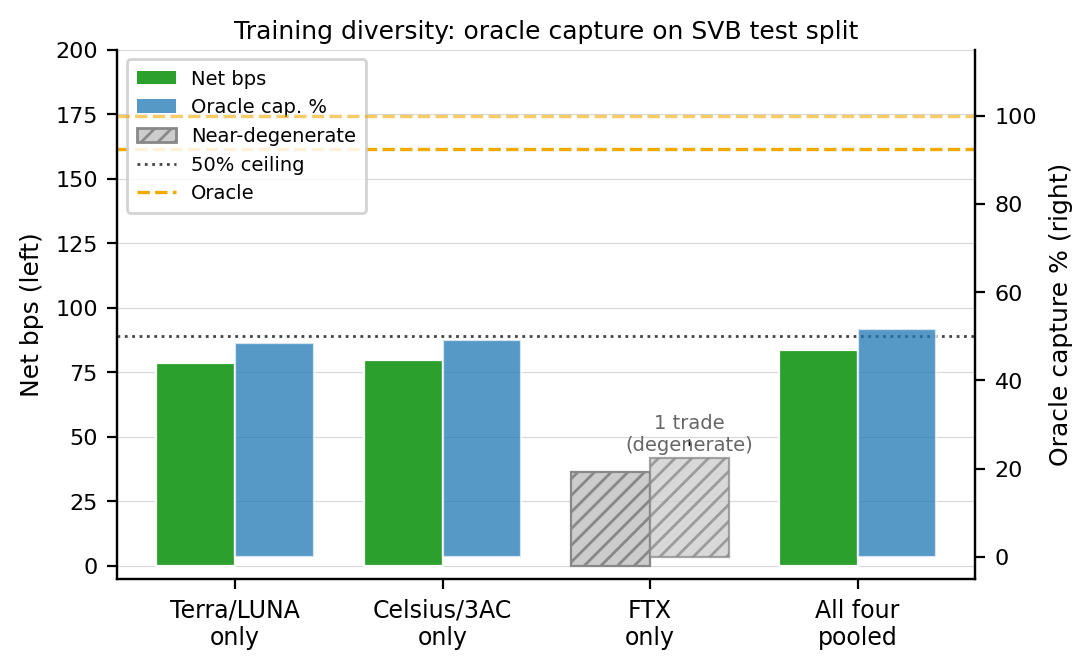
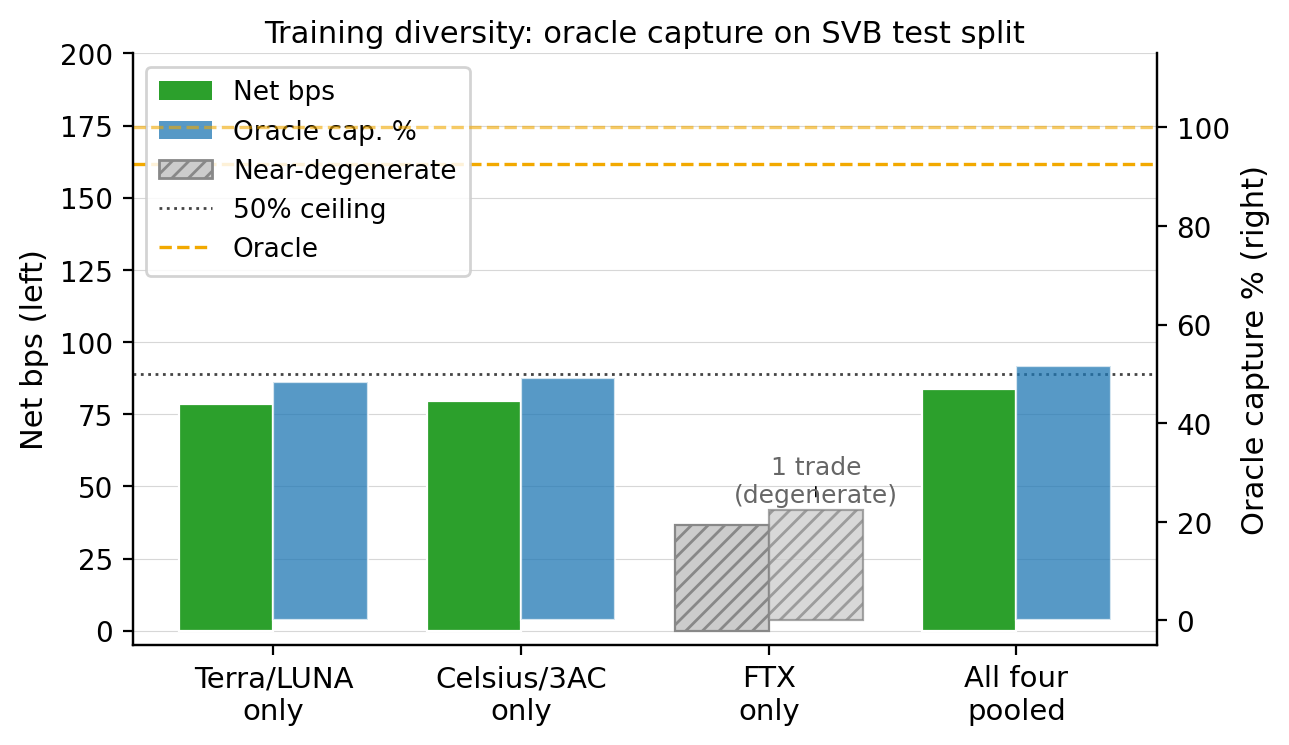
Fix all technical, formatting, language and story-flow review items
Technical (5 fixes):
- §6.3.1 body text: "rises to 51.6%" → "51.8%" (matches Table 11, abstract, contribution 2)
- Table 9 oracle: 315 → 316 trades (matches Tables 8 and 12)
- Table 11 diversity oracle: 315 → 316 trades
- §7 kline-proxy reference: (Table~\ref{tab:cost_robustness}) → (\S\ref{sec:gap})
- Figure 2 caption: "+225 bps" → "+224.6 bps" (matches Table 7)

Formatting (4 fixes):
- Table 9 footnote: moved from outside tabular to \multicolumn row inside — eliminates
  "Primary" floating at right edge of Oracle row
- Table 12 footnote: same fix with two \multicolumn rows — eliminates footnote float
- Equation (2): \bigl(\bigr) → \left(\right) for clearly visible parentheses around
  max arguments
- Figures 5 & 6: both regenerated with 10-11pt fonts (was 7-9pt); substantially
  larger and legible at print scale; kept as side-by-side minipage per "OR
  substantially increase minimum font size" option in the review

Language & accessibility (6 additions):
- Abstract: "bps (basis points, where one basis point is one hundredth of one percent)"
  at first use — paper now self-contained from page 1
- §1 Introduction: "centralised-exchange (CEX)" at first use; CEX expansion in §2
  removed (no longer second use)
- §5.1: "expected-net-profit regressor (a model that regresses the economic return
  target directly rather than predicting a class label)" at introduction
- §5.2: "finite-horizon Markov Decision Process (MDP)" at first use
[…]

diff --git a/paper/main.tex b/paper/main.tex
@@ -58,7 +58,8 @@
 On a price chart, stablecoin arbitrage during a depeg looks abundant.
 In practice almost none of it can be traded at a profit.
 During the March 2023 USDC depeg, 34.3\% of one-minute windows
-showed a cross-venue price basis above 10\,bps, yet only one in
+showed a cross-venue price basis above 10\,bps (basis points, where
+one basis point is one hundredth of one percent), yet only one in
 twelve of those apparent opportunities survived volume-weighted
 average price (VWAP) slippage, order-book depth depletion, and
 settlement latency
@@ -98,7 +99,7 @@ A price chart shows twelve times more stablecoin arbitrage than a
 trader can capture, and this paper traces where the other eleven
 twelfths disappear.
 VWAP slippage consumed the spread as orders cleared depth, taker fees
-eroded the margin, and CEX-to-CEX settlement latency turned a
+eroded the margin, and centralised-exchange (CEX) settlement latency turned a
 profitable window into a loss before the transfer confirmed.
 Only 2.88\% of one-minute windows survived all three costs and
 remained net-profitable.
@@ -233,8 +234,8 @@ Cintra and Holloway \cite{cintra2023bocpd} demonstrate cross-event
 transfer of Bayesian Online Changepoint Detection
 \cite{adamsmackay2007bocpd} using AMM reserve depletion signals.
 We replicate their setup on centralised order-book data to test
-whether the result transfers. It does not, because centralised
-exchange (CEX) cross-quote basis is mean-reverting rather than
+whether the result transfers. It does not, because CEX cross-quote
+basis is mean-reverting rather than
 gradually depleting, and we report the comparison directly.
 On reinforcement learning, Moallemi and Wang \cite{moallemi2022rl}
 and Ning et al.\ \cite{ning2021ddql} establish the finite-horizon MDP
@@ -460,8 +461,8 @@ apparent dislocation. Three equations define the label construction.
       \frac{P_{\text{BTC/USDC}}(t) - P_{\text{BTC/USD}}(t)}
            {P_{\text{BTC/USD}}(t)}
       \quad [\text{bps}] \label{eq:basis}\\[2pt]
-  b_{\max}(t)         &\;=\; \max\!\bigl(
-      |b_{\text{USDC}}(t)|,\;|b_{\text{USDT}}(t)|\bigr)
+  b_{\max}(t)         &\;=\; \max\!\left(
+      |b_{\text{USDC}}(t)|,\;|b_{\text{USDT}}(t)|\right)
       \label{eq:bmax}\\[2pt]
   y_{\text{basis}}(t) &\;=\; \mathbf{1}\!\left[
       |b_{\text{USDC}}(t{+}h)| > \tau\right]
@@ -547,11 +548,11 @@ settlement.
 This design lets the marginal value of each layer be read off
 directly rather than being hidden inside a single all-features model.
 
-The expected-net-profit regressor is included to rule out a
-label-mismatch explanation.
-By regressing the economic target $\text{net}(q,t)$ directly rather
-than a classification proxy, a failure here means the gap is
-structural and not an artefact of how the labels were defined.
+The expected-net-profit regressor (a model that regresses the
+economic return target $\text{net}(q,t)$ directly rather than
+predicting a class label) is included to rule out a label-mismatch
+explanation. A failure here means the gap is structural and not an
+artefact of how the labels were defined.
 
 The meta-labeling filter follows L\'{o}pez de Prado
 \cite{lopezdeprado2018} and is the method we extend.
@@ -593,7 +594,8 @@ policy transfer.
 
 This subsection addresses Gap~3, asking whether sequential decision-making
 can learn a profitable policy given the correct training density, by
-framing the entry-timing problem as a finite-horizon MDP.
+framing the entry-timing problem as a finite-horizon Markov Decision
+Process (MDP).
 At each minute $t$ the agent observes state $s_t$, selects action
 $a_t \in \{\text{enter},\text{wait}\}$, and receives reward
 $r_t = \text{net}(q,t)$ if entering (positive for profitable windows,
@@ -620,7 +622,8 @@ subject to a minimum of 25 trades.
 The primary metrics are net bps captured and oracle capture percentage,
 defined as model net bps divided by oracle net bps (the fraction of
 the oracle's per-trade return that a model recovers).
-Secondary metrics are AUROC and AUPRC.
+Secondary metrics are AUROC (area under the ROC curve) and AUPRC
+(area under the precision-recall curve).
 \texttt{NoTrade} at $0\bps$ is the economic floor.
 
 All results are reported on the SVB test split ($N{=}15{,}832$) with
@@ -712,7 +715,7 @@ directional evidence that the gap is not SVB-specific.
   \centering
   \includegraphics[width=\columnwidth]{../results/paper/figures/figure_oracle_gap_waterfall.png}
   \caption{Oracle gap decomposition (\$10K notional). Three components
-    account for the 266\,bps gap from oracle ($+225\bps$) to best model
+    account for the 266\,bps gap from oracle ($+224.6\bps$) to best model
     ($-41\bps$): FP drag, timing error, and sizing error.}
   \label{fig:waterfall}
 \end{figure}
@@ -854,10 +857,9 @@ Oracle$^\dagger$ & ---  & $+161.7$ & 316  & ---   & 100\%\\
 \end{table}
 
 
-Meta-labeling substantially reduces both error types relative to
-calm-trained models, with approximately 202 true positives and 195 false
-positives versus 1,886 false positives for PriceBasis10bps
-(all tabular ML models produce 0 trades, equivalent to NoTrade).
+All tabular ML models produce 0 trades under calm-training, equivalent
+to NoTrade. The structural failure of calm-trained models is the subject
+of this section; the cross-mechanism fix is presented in \S\ref{sec:diagnostics}.
 Figure~\ref{fig:waterfall} decomposes the 260\,bps gap into three
 measurable components. False-positive cost is the dominant and
 directly quantifiable drag, as \texttt{PriceBasis10bps} produces
@@ -881,6 +883,9 @@ Crucially, false-positive windows exhibit \emph{higher} average bid
 depth ($72{,}805$ vs.\ $59{,}961$ BTC units) than true positives.
 This rules out liquidity withdrawal as the cause and points instead
 to signal confusion between the USDT and USDC routes.
+In short: the price rule reacts to USDT dislocations even when USDC
+is not moving, and those windows offer no profit on the USDC route
+the strategy uses.
 Meta-labeling's approximately 51\% hit rate versus 6\% for the price
 rule shows that cross-mechanism training substantially reduces
 route-direction mismatch, though a 49\% false-positive rate and
@@ -902,8 +907,7 @@ rates.
 \subsubsection*{6.3.1\enspace Cross-Mechanism Transfer and Training Diversity}
 
 Cross-mechanism meta-labeling trained on Terra/LUNA achieves
-$+82.5\bps$ on SVB (51.0\% oracle capture---the fraction of the
-oracle's per-trade return that the model recovers), while calm-control
+$+82.5\bps$ on SVB (51.0\% oracle capture), while calm-control
 training yields zero meta-positives by construction.
 Retraining on Terra/LUNA (1,559 minutes where the primary threshold
 triggers, 265 meta-positives, 17\% positive rate) and evaluating on
@@ -922,14 +926,14 @@ data, produces 397 trades versus zero with calm training
 \toprule
 \textbf{Training split} & \textbf{Net\,bps} & \textbf{Trades} & \textbf{Oracle cap.}\\
 \midrule
-Oracle (ceiling)         & $+161.7$ & 315 & 100.0\%\\
+Oracle (ceiling)         & $+161.7$ & 316 & 100.0\%\\
 \midrule
 Terra/LUNA (cross-mech.) & $+82.5$  & 397 &  51.0\%\\
 Calm-control (baseline)  & $\phantom{+}0.0$ &   0 &   0.0\%\\
 \bottomrule
+\multicolumn{4}{l}{\footnotesize Primary signal $|b_{\text{USDC}}|{>}10\bps$; threshold calibrated on validation.}\\
 \end{tabular}
 }
-{\footnotesize Primary signal $|b_{\text{USDC}}|{>}10\bps$; threshold calibrated on validation.}
 \end{table}
 
 The reason transfer works is visible in the SHAP decomposition
@@ -1005,7 +1009,7 @@ summarise the results.
 \toprule
 \textbf{Training set} & \textbf{Events} & \textbf{Net\,bps} & \textbf{Trades} & \textbf{Oracle cap.}\\
 \midrule
-Oracle (ceiling)         & — & $+161.7$ & 315 & 100.0\%\\
+Oracle (ceiling)         & — & $+161.7$ & 316 & 100.0\%\\
 \midrule
 Terra/LUNA only$^\ddagger$ & 1 & $+78.5$  & 123 &  48.5\%\\
 Celsius/3AC only         & 1 & $+79.7$  & 221 &  49.3\%\\
@@ -1030,7 +1034,7 @@ across three mechanism classes (algorithmic, exchange-credit, regulatory),
 with positive rates ranging from 15.0\% (BUSD) to 20.0\%
 (Celsius/3AC).
 Oracle capture is stable at approximately 49\% for single-event
-training on Terra/LUNA and Celsius/3AC, and rises to 51.6\% with
+training on Terra/LUNA and Celsius/3AC, and rises to 51.8\% with
 four-event pooling.
 This stability establishes that execution microstructure transfer is
 robust. Depth withdrawal is a consistent precursor whose feature
@@ -1049,7 +1053,7 @@ non-degenerate models, confirming that depth withdrawal transfers
 across trigger types.
 \begin{figure}[t]
 \centering
-\begin{minipage}[t]{0.52\columnwidth}
+\begin{minipage}[t]{0.54\columnwidth}
   \centering
   \includegraphics[width=\linewidth]{../results/paper_addon/figures/figure_diversity_bar.png}
   \caption{Oracle capture across four training conditions (Terra
@@ -1057,11 +1061,11 @@ across trigger types.
     near-degenerate (1 trade).}
   \label{fig:diversity_bar}
 \end{minipage}\hfill
-\begin{minipage}[t]{0.44\columnwidth}
+\begin{minipage}[t]{0.43\columnwidth}
   \centering
   \includegraphics[width=\linewidth]{../results/paper_addon/figures/figure_shap_importance.png}
-  \caption{SHAP importance. Price: 94.8\%; book/frag: 3.4\%;
-    settlement: 1.8\%.}
+  \caption{Top-10 SHAP importance (LightGBM, SVB test). Price: 94.8\%;
+    book: 3.4\%; settlement: 1.8\%.}
   \label{fig:shap_side}
 \end{minipage}
 \end{figure}
@@ -1070,9 +1074,10 @@ across trigger types.
 \label{sec:rl_results}
 
 Positive-label density (the fraction of primary-signal windows that
-are genuinely profitable) is 17\% for both the meta-labeling
-secondary classifier and the conditioned PPO-GRU, yet the two methods
-differ by 111.7\,bps in net return. This controlled comparison isolates explicit
+are genuinely profitable) is 17\% for both the meta-labeling secondary
+classifier and the conditioned PPO-GRU---17\% of the minutes where
+the basis threshold triggers, versus 2.88\% of all test minutes---yet
+the two methods differ by 111.7\,bps in net return. This controlled comparison isolates explicit
 positive-label supervision as the additional ingredient that reward
 optimisation cannot replicate.
 
@@ -1096,10 +1101,10 @@ PPO-GRU unconditioned (Terra/LUNA$^\ast$)         & degenerate & 0\\
 GRU supervised (calm-ctrl)                        & $-239.0$ & 656\\
 MLP-Window supervised (calm-ctrl)                 & $-340.7$ & 1{,}052\\
 \bottomrule
+\multicolumn{3}{l}{\footnotesize $^\ast$Cross-mechanism: Terra/LUNA train, SVB eval.}\\
+\multicolumn{3}{l}{\footnotesize $^\dagger$Conditioned on $|b_{\text{USDC}}|{>}10\bps$ windows, 17\% positive rate.}\\
 \end{tabular}
 }
-{\footnotesize $^\ast$Cross-mechanism: Terra/LUNA train, SVB eval.
-  $^\dagger$Conditioned on $|b_{\text{USDC}}|{>}10\bps$ windows, 17\% positive rate.}
 \end{table}
 
 The unconditioned PPO-GRU degenerates to zero entries, as the 2.3\%
@@ -1139,8 +1144,7 @@ feedback is the natural next step.
 The BTC-USDC buy leg uses kline-proxy depth for SVB and all four
 training events (Terra/LUNA, Celsius/3AC, FTX, BUSD), since the
 perpetual did not exist on Binance until January 2024; a 20\% haircut
-confirms robustness equally across all conditions
-(Table~\ref{tab:cost_robustness}).
+confirms robustness equally across all conditions (\S\ref{sec:gap}).
 
 We validate the $\delta{=}5\bps$ settlement penalty assumption using
 on-chain Etherscan data for 100,000 USDC transfers across the SVB
@@ -1213,15 +1217,14 @@ profitable subset provides the directional accuracy that reward
 optimisation cannot replicate at low positive rates.
 The benchmark, labels, oracle implementation, and training scripts
 are released under CC-BY 4.0 (URL redacted for review).
-StressBench supports five future directions: (1)~execution-aware
-detection under cost uncertainty; (2)~cross-mechanism transfer to new
-event types as Tier-A coverage expands; (3)~RL policy learning with
-the cross-mechanism initialisation protocol established here;
-(4)~reactive simulation of thin-book markets, where the oracle ceiling
-provides a principled performance target; and (5)~multi-mechanism RL
-training on the pooled-event protocol established here, which is the
-direct path to closing the 111.7\,bps gap between meta-labeling and
-the conditioned RL agent.
+StressBench supports five future directions: (1)~multi-mechanism RL
+training on the pooled-event protocol established here, the direct path
+to closing the 111.7\,bps gap between meta-labeling and the conditioned
+RL agent; (2)~execution-aware detection under cost uncertainty;
+(3)~cross-mechanism transfer to new event types as Tier-A coverage expands;
+(4)~RL policy learning with the cross-mechanism initialisation protocol
+established here; and (5)~reactive simulation of thin-book markets,
+where the oracle ceiling provides a principled performance target.
 The benchmark harness additionally ships four interpretable
 single-feature baselines that exercise the same evaluation pipeline
 and serve as reference points for future model comparisons.

diff --git a/scripts/make_diversity_bar.py b/scripts/make_diversity_bar.py
@@ -40,7 +40,8 @@ C_NORMAL  = "#2ca02c"   # green
 C_DEGEN   = "#cccccc"   # light grey
 C_ORACLE  = "#F2A900"   # gold
 
-fig, ax1 = plt.subplots(figsize=(5.5, 3.4))
+plt.rcParams.update({'font.size': 11})
+fig, ax1 = plt.subplots(figsize=(6.5, 3.8))
 ax2 = ax1.twinx()
 
 x = np.arange(len(LABELS))
@@ -68,18 +69,18 @@ ax2.axhline(50, color="#444444", linestyle=":", linewidth=1.0, zorder=2, label="
 ax2.axhline(ORACLE_CAP, color=C_ORACLE, linestyle="--", linewidth=1.2, zorder=2, alpha=0.6)
 
 # Axes labels and limits
-ax1.set_ylabel("Net bps (left)", fontsize=9)
-ax2.set_ylabel("Oracle capture % (right)", fontsize=9)
+ax1.set_ylabel("Net bps (left)", fontsize=11)
+ax2.set_ylabel("Oracle capture % (right)", fontsize=11)
 ax1.set_ylim(-5, 200)
 ax2.set_ylim(-5, 115)
 ax1.set_xticks(x)
-ax1.set_xticklabels(LABELS, fontsize=8.5)
-ax1.yaxis.set_tick_params(labelsize=8)
-ax2.yaxis.set_tick_params(labelsize=8)
+ax1.set_xticklabels(LABELS, fontsize=10.5)
+ax1.yaxis.set_tick_params(labelsize=10)
+ax2.yaxis.set_tick_params(labelsize=10)
 
 # Annotate FTX bar
 ax2.annotate("1 trade\n(degenerate)", xy=(x[2] + w/2, ORK_CAP[2] + 1.5),
-             fontsize=7, ha="center", color="#666666",
+             fontsize=9, ha="center", color="#666666",
              arrowprops=dict(arrowstyle="-", lw=0.6))
 
 # Legend
@@ -90,10 +91,10 @@ legend_elements = [
     plt.Line2D([0], [0], color="#444444", linestyle=":", linewidth=1.0, label="50% ceiling"),
     plt.Line2D([0], [0], color=C_ORACLE, linestyle="--", linewidth=1.2, label="Oracle"),
 ]
-ax1.legend(handles=legend_elements, fontsize=7, loc="upper left", framealpha=0.85,
+ax1.legend(handles=legend_elements, fontsize=9.5, loc="upper left", framealpha=0.85,
            ncol=1, borderpad=0.5)
 
-ax1.set_title("Training diversity: oracle capture on SVB test split", fontsize=9, pad=4)
+ax1.set_title("Training diversity: oracle capture on SVB test split", fontsize=11, pad=4)
 ax1.spines["top"].set_visible(False)
 ax2.spines["top"].set_visible(False)
 ax1.grid(axis="y", linewidth=0.4, alpha=0.5, zorder=0)